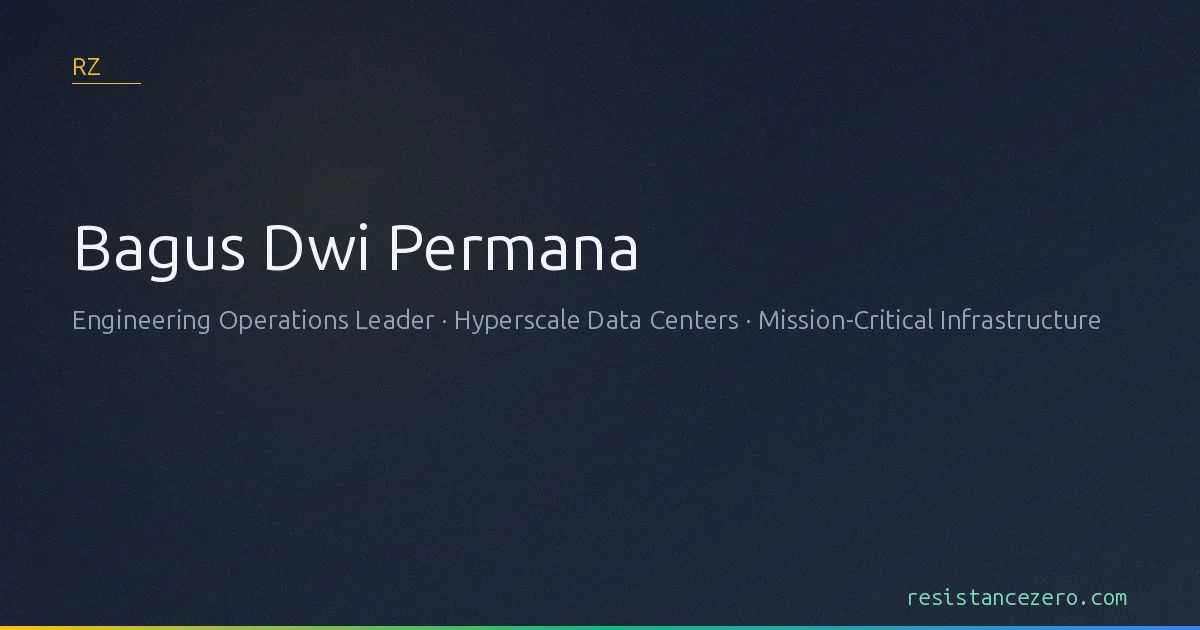
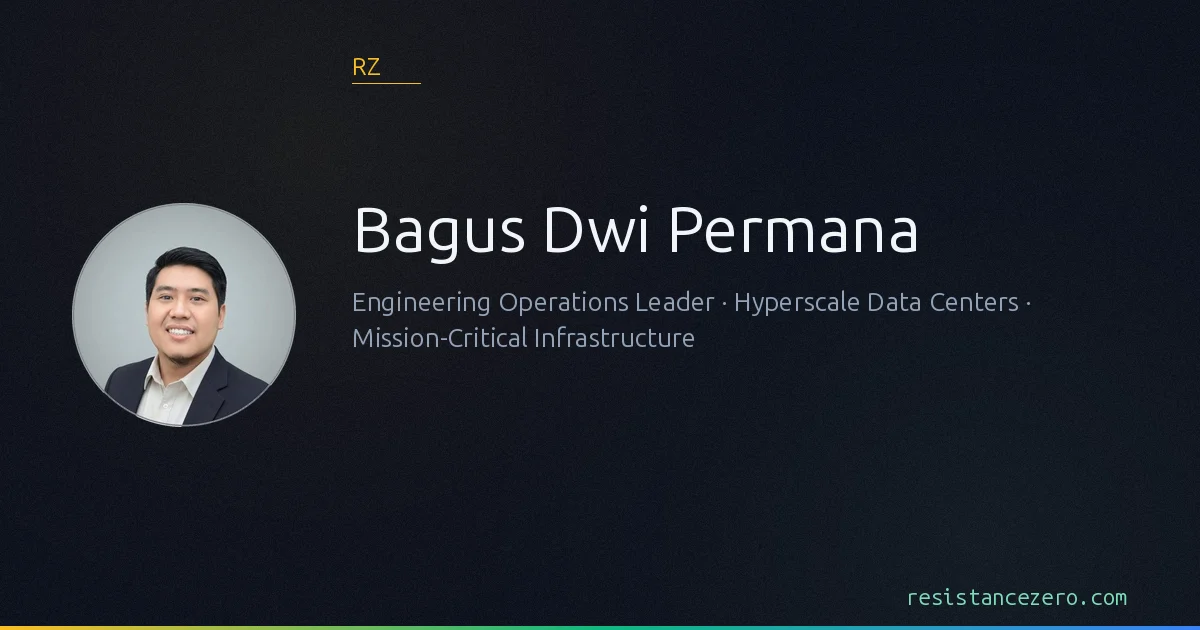
feat: article-28 editorial overhaul — skin compliance + real source links + research-backed depth + OG photo card
- Add missing .container wrapper in article-content (root of no-margins + missing related-rail; matches article-27)
- Skin: remove gradient drop-cap/h2 accent + duplicate scroll bar (rejected #7/#9); wide tables scroll inside reading measure
- Depth: hardware-ceiling table, needs/cost/time/risk pipeline table, provider notes (Claude/ChatGPT/Ollama/Gemini), BitNet/DistilBERT/dataset-distillation concretes; honesty guardrails (4000x illustrative, 100-150x solid, corpus corrected 60->15-20TB, Extropic aspirational)
- Sources: real clickable arXiv/DOI links + confidence tags; fix Landauer anchor + series-nav (23->28)
- OG: circular profile-photo composite + index-aligned dark hero (build-og-images.py -> assets/og/index.webp)
- v1.113.3

diff --git a/changelog.html b/changelog.html
@@ -14,7 +14,7 @@
   <meta name="viewport" content="width=device-width, initial-scale=1.0">
   <meta http-equiv="X-UA-Compatible" content="IE=edge">
 
-  <title>Changelog — Resistance Zero (v1.113.2 latest)</title>
+  <title>Changelog — Resistance Zero (v1.113.3 latest)</title>
   <meta name="description" content="Live release notes for resistancezero.com — every shipped version, Plan v12 → v15+, with Awwwards uplift, dark-mode coverage, and SEO/AI-search work.">
   <meta name="author" content="Bagus Dwi Permana">
   <meta name="robots" content="index, follow">
@@ -50,7 +50,7 @@
         "@id": "https://resistancezero.com/changelog.html",
         "url": "https://resistancezero.com/changelog.html",
         "name": "Changelog — Resistance Zero",
-        "description": "Live release notes for resistancezero.com — 546 shipped versions.",
+        "description": "Live release notes for resistancezero.com — 547 shipped versions.",
         "dateModified": "2026-07-22",
         "author": {
           "@type": "Person",
@@ -73,18 +73,18 @@
       {
         "@type": "ItemList",
         "name": "Release history",
-        "numberOfItems": 546,
+        "numberOfItems": 547,
         "itemListElement": [
-        {"@type":"ListItem","position":1,"name":"v1.113.2 — 2026-07-22","url":"https://resistancezero.com/changelog.html#v1.113.2"},
-        {"@type":"ListItem","position":2,"name":"v1.113.1 — 2026-07-22","url":"https://resistancezero.com/changelog.html#v1.113.1"},
-        {"@type":"ListItem","position":3,"name":"v1.113.0 — 2026-07-22","url":"https://resistancezero.com/changelog.html#v1.113.0"},
-        {"@type":"ListItem","position":4,"name":"v1.112.2 — 2026-07-22","url":"https://resistancezero.com/changelog.html#v1.112.2"},
-        {"@type":"ListItem","position":5,"name":"v1.112.1 — 2026-07-22","url":"https://resistancezero.com/changelog.html#v1.112.1"},
-        {"@type":"ListItem","position":6,"name":"v1.112.0 — 2026-07-22","url":"https://resistancezero.com/changelog.html#v1.112.0"},
-        {"@type":"ListItem","position":7,"name":"v1.111.2 — 2026-07-22","url":"https://resistancezero.com/changelog.html#v1.111.2"},
-        {"@type":"ListItem","position":8,"name":"v1.111.1 — 2026-07-22","url":"https://resistancezero.com/changelog.html#v1.111.1"},
-        {"@type":"ListItem","position":9,"name":"v1.111.0 — 2026-07-22","url":"https://resistancezero.com/changelog.html#v1.111.0"},
-        {"@type":"ListItem","position":10,"name":"v1.110.2 — 2026-07-22","url":"https://resistancezero.com/changelog.html#v1.110.2"}
+        {"@type":"ListItem","position":1,"name":"v1.113.3 — 2026-07-22","url":"https://resistancezero.com/changelog.html#v1.113.3"},
+        {"@type":"ListItem","position":2,"name":"v1.113.2 — 2026-07-22","url":"https://resistancezero.com/changelog.html#v1.113.2"},
+        {"@type":"ListItem","position":3,"name":"v1.113.1 — 2026-07-22","url":"https://resistancezero.com/changelog.html#v1.113.1"},
+        {"@type":"ListItem","position":4,"name":"v1.113.0 — 2026-07-22","url":"https://resistancezero.com/changelog.html#v1.113.0"},
+        {"@type":"ListItem","position":5,"name":"v1.112.2 — 2026-07-22","url":"https://resistancezero.com/changelog.html#v1.112.2"},
+        {"@type":"ListItem","position":6,"name":"v1.112.1 — 2026-07-22","url":"https://resistancezero.com/changelog.html#v1.112.1"},
+        {"@type":"ListItem","position":7,"name":"v1.112.0 — 2026-07-22","url":"https://resistancezero.com/changelog.html#v1.112.0"},
+        {"@type":"ListItem","position":8,"name":"v1.111.2 — 2026-07-22","url":"https://resistancezero.com/changelog.html#v1.111.2"},
+        {"@type":"ListItem","position":9,"name":"v1.111.1 — 2026-07-22","url":"https://resistancezero.com/changelog.html#v1.111.1"},
+        {"@type":"ListItem","position":10,"name":"v1.111.0 — 2026-07-22","url":"https://resistancezero.com/changelog.html#v1.111.0"}
         ]
       }
     ]
@@ -607,10 +607,10 @@
       <h1 id="cl-heading">Changelog</h1>
       <p class="cl-subtitle">Live release notes &mdash; every shipped version</p>
       <p class="cl-meta">
-        Latest: <strong style="color:#7dd5b4;">v1.113.2</strong>
+        Latest: <strong style="color:#7dd5b4;">v1.113.3</strong>
         &nbsp;&bull;&nbsp;
         <span id="rzVersionAnchor"></span>
-        <span class="cl-count-badge">546 releases</span>
+        <span class="cl-count-badge">547 releases</span>
       </p>
 
       <div class="filter-chips" role="group" aria-label="Filter by version tier">
@@ -624,7 +624,29 @@
     <!-- ── Entry list ── -->
     <section class="changelog-list" aria-label="Release history">
 
-    <article class="changelog-entry is-current" data-version-tier="patch" data-version="v1.113.2">
+    <article class="changelog-entry is-current" data-version-tier="patch" data-version="v1.113.3">
+      <div class="changelog-meta">
+        <span class="changelog-version-badge" style="--tier-color:#10b981;">v1.113.3</span>
+        <span class="changelog-tier-pill" style="--tier-color:#10b981;background:#10b98120;color:#10b981;border:1px solid #10b98140;">PATCH</span>
+        <time class="changelog-date" datetime="2026-07-22">July 22, 2026</time>
+      </div>
+      <p class="changelog-caption">article-28 editorial overhaul: skin compliance + real source links + research-backed depth + OG photo card</p>
+      <div class="changelog-body">
+        <h3 class="cl-subhead">Fixed</h3>
+<ul>
+  <li><strong>article-28.html reading layout</strong> — the page was missing the <code>&lt;div class=&quot;container&quot;&gt;</code> wrapper inside <code>&lt;article class=&quot;article-content&quot;&gt;</code> that every compliant editorial article uses (see <code>article-27.html</code>). Without it the prose ran full-bleed (no centered column, no L/R margins) <strong>and</strong> the shared editorial runtime could not build the sticky related rail (it keys off <code>.article-content &gt; .container</code>). Added the wrapper → prose now sits in the centered reading column with margins, and the "Related" rail hydrates from the new Continue-Reading block. This is the true root of the recurring "no margins / doesn't follow the article standard" report (the earlier <code>.article-body</code> wrapper alone was insufficient).</li>
+</ul>
+<h3 class="cl-subhead">Changed</h3>
+<ul>
+  <li><strong>article-28 skin → editorial compliance</strong> (rejected-pattern #7/#9): removed the gradient drop-cap (<code>linear-gradient</code> first-letter → solid <code>--rz-art-accent</code>), flattened the gradient <code>h2::before</code> accent to a 2px solid rail, and deleted the bespoke hand-rolled scroll-progress bar + its script (the shared <code>js/rz-article-editorial.js</code> runtime owns read-progress). Body callouts were already editorial-flat via <code>css/rz-article-dark.css</code>. Wide 7-column data tables now scroll inside the reading measure (<code>.ws-lever-table</code> clamped to <code>min(--rz-measure, 880px)</code>) so they no longer sprawl past the prose (fixes the responsive wide-article-table gate; note this site's editorial measure is 46rem @ 20px root = 920px).</li>
+  <li><strong>article-28 content depth</strong> (owner: "harus sangat2 lebih detail", concrete max limits + conditions + per-process cost/duration/needs/risk): added a hardware-ceiling table (what fits on 16GB/24–32GB/70B/CPU-only, with the <code>Q4 ≈ 0.5GB/1B</code> rule), expanded the local-AI pipeline table to needs·cost·time·ROI·risk with real figures (QLoRA 65–70B on one 48GB GPU ~24h/~$15–30, RAG < ~100K interactions/mo cheaper than fine-tune, MCPVerse best-model 57.77%), a provider-notes table (Claude MCP / ChatGPT function-calling / Ollama local GGUF / Gemini long-context grounding), concrete BitNet 70B numbers (4.1× faster · 8.9× throughput · 7.16× less memory · 71.4× matmul energy, from-scratch-only caveat), DistilBERT (97% at −40% params) + dataset-distillation (50 IPC → −5.9% on ImageNet-1K), and rewrote the 3 generic FAQ into concrete max-and-conditions answers. Honesty guardrails: the "~4,000×" density figure is labeled illustrative (the solid, sourced number is corpus→FP16-70B ≈ 100–150×; cascade chart + CSV corrected from ~60 TB to ~15–20 TB), "30–60%" prompt gain labeled reported, Extropic "~10,000×" labeled aspirational.</li>
+  <li><strong>article-28 sources</strong> — every reference is now a real clickable link (arXiv <code>abs/</code>, DOI, publisher pages) with <code>[proven]/[reported]/[frontier]/[claim]</code> confidence tags (owner: "sources reference ini tidak ada linknya"). Fixed the wrong glossary anchor on Landauer and corrected the series-nav (was mislabeled "Article 23"/prev article-22 → Article 28/prev article-27).</li>
+  <li><strong>Open Graph index card</strong> (<code>tools/build-og-images.py</code> → <code>assets/og/index.webp</code>) — the generic gradient card now composites a circular profile photo (<code>assets/profile-photo.jpg</code>, anti-aliased mask + brand hairline ring) over an index-aligned dark hero (near-<code>#0a0e1a</code> base + low-opacity gold/mint aurora, RZ mark, resistancezero.com footer). Graceful fallback if the photo is absent.</li>
+</ul>
+      </div>
+    </article>
+
+    <article class="changelog-entry" data-version-tier="patch" data-version="v1.113.2">
       <div class="changelog-meta">
         <span class="changelog-version-badge" style="--tier-color:#10b981;">v1.113.2</span>
         <span class="changelog-tier-pill" style="--tier-color:#10b981;background:#10b98120;color:#10b981;border:1px solid #10b98140;">PATCH</span>

diff --git a/article-28.html b/article-28.html
@@ -531,7 +531,7 @@
         .reference-item a:hover { text-decoration: underline; }
 
     /* Keep wide data tables inside the reading column — scroll internally instead of overflowing */
-    .article-body .ws-lever-table { display: block; max-width: 100%; overflow-x: auto; }
+    html[data-rz-register="editorial"] .article-body .ws-lever-table { display: block; max-width: min(var(--rz-measure, 46rem), 880px) !important; overflow-x: auto !important; }
     /* v1.5.0 — article typography uplift (Awwwards-tier polish) */
 
 /* Drop-cap on first paragraph of article body — solid accent (editorial skin, no gradient) */
@@ -859,6 +859,7 @@ article h2:hover::before { opacity: 1; transform: translateX(0); }
 <!-- Article Content -->
 <main id="main-content">
 <article class="article-content">
+<div class="container">
 <div class="article-body">
     <p class="ws-lead">A friend handed me two provocations that sound like science fiction and, taken literally, are. First: compress hundreds of terabytes of AI training data &mdash; millions of times over &mdash; down to about one kilobyte. Second: make a single CPU-only laptop the equal of a gigawatt of datacenter AI compute. Both collide head-on with two of the most durable walls in all of science. And yet the honest answer is not &ldquo;no.&rdquo; It is far more interesting than that.</p>
 
@@ -1155,6 +1156,7 @@ article h2:hover::before { opacity: 1; transform: translateX(0); }
         <a href="articles.html">All Articles</a>
         <span style="color:#64748b;cursor:default;">Latest Article</span>
     </div>
+</div>
 </div>
 </article>
 

diff --git a/js/rz-version.js b/js/rz-version.js
@@ -1,4 +1,4 @@
 /* Single source of truth for site version. Bump on every release per VERSIONING_STANDARD.md. */
-window.RZ_VERSION = '1.113.2';
-window.RZ_VERSION_DATE = '2026-07-21';
+window.RZ_VERSION = '1.113.3';
+window.RZ_VERSION_DATE = '2026-07-22';
 window.RZ_VERSION_CODENAME = 'Pixel Rise';

diff --git a/tools/build-og-images.py b/tools/build-og-images.py
@@ -35,6 +35,10 @@ except ImportError:
 SCRIPT_DIR = Path(__file__).resolve().parent
 REPO_ROOT = SCRIPT_DIR.parent
 OUTPUT_DIR = REPO_ROOT / "assets" / "og"
+PROFILE_PHOTO = REPO_ROOT / "assets" / "profile-photo.jpg"
+
+# Slugs that get the owner-photo hero treatment (index card + profile fallback).
+PHOTO_SLUGS = {"index", "profile"}
 
 # ---------------------------------------------------------------------------
 # Per-page targets: (slug, title, subtitle, accent_hex)
@@ -599,6 +603,13 @@ STRIP_COLOR = "#7DDDB4"
 
 BORDER_STOPS = ["#fbbf24", "#10b981", "#3b82f6"]
 
+# --- Index-hero palette (matches site index look: near-black base + gold/mint aurora) ---
+HERO_BASE = "#0a0e1a"          # index dark base
+HERO_AURORA_GOLD = "#fbbf24"   # signal amber
+HERO_AURORA_MINT = "#7DDDB4"   # mint accent
+AVATAR_DIAMETER = 224          # px, hero avatar
+AVATAR_RING = (255, 255, 255, 128)  # thin brand hairline ~ rgba(255,255,255,0.5)
+
 
 def _make_gradient_bg() -> Image.Image:
     """Dark-slate linear gradient top-left → bottom-right."""
@@ -613,6 +624,75 @@ def _make_gradient_bg() -> Image.Image:
             b = int(tl[2] + (br[2] - tl[2]) * t)
             img.putpixel((x, y), (r, g, b))
     return img
+
+
+def _make_hero_bg() -> Image.Image:
+    """Index-hero base: near-black (#0a0e1a) with a soft gold + mint aurora wash.
+
+    Low-opacity radial washes only (gold upper-left, mint lower-right) — no
+    saturated generic gradient, matching the site's index hero treatment.
+    """
+    base = _hex(HERO_BASE)
+    img = Image.new("RGBA", (W, H), (*base, 255))
+
+    def _aurora(cx: int, cy: int, radius: int, hex_color: str, max_alpha: int) -> None:
+        blob = Image.new("RGBA", (W, H), (0, 0, 0, 0))
+        d = ImageDraw.Draw(blob)
+        ar, ag, ab = _hex(hex_color)
+        step = max(1, radius // 70)
+        for r in range(radius, 0, -step):
+            alpha = int(max_alpha * (1 - r / radius) ** 1.6)
+            d.ellipse([cx - r, cy - r, cx + r, cy + r], fill=(ar, ag, ab, alpha))
+        img.alpha_composite(blob)
+
+    # Gold aurora upper-left, mint aurora lower-right — both very low opacity.
+    _aurora(int(W * 0.26), int(H * 0.24), int(W * 0.48), HERO_AURORA_GOLD, 16)
+    _aurora(int(W * 0.82), int(H * 0.86), int(W * 0.50), HERO_AURORA_MINT, 14)
+    return img.convert("RGB")
+
+
+def _circular_avatar(
+    path: Path, diameter: int, ring_rgba: tuple[int, int, int, int]
+) -> Image.Image | None:
+    """Load a photo, center-crop to square, apply an anti-aliased circular mask
+    (rendered at 4× then downscaled), and draw a thin hairline ring.
+
+    Returns an RGBA image of size (diameter, diameter), or None if the source
+    photo is missing/unreadable (caller falls back to a photo-less card).
+    """
+    if not path.exists():
+        return None
+    try:
+        src = Image.open(path).convert("RGB")
+    except Exception:
+        return None
+
+    # Center-crop to a square.
+    w, h = src.size
+    side = min(w, h)
+    left = (w - side) // 2
+    top = (h - side) // 2
+    src = src.crop((left, top, left + side, top + side))
+
+    ss = 4  # supersample factor for anti-aliased mask + ring
+    big = diameter * ss
+    photo = src.resize((big, big), Image.LANCZOS).convert("RGBA")
+
+    mask = Image.new("L", (big, big), 0)
+    ImageDraw.Draw(mask).ellipse([0, 0, big - 1, big - 1], fill=255)
+
+    avatar_big = Image.new("RGBA", (big, big), (0, 0, 0, 0))
+    avatar_big.paste(photo, (0, 0), mask)
+
+    # Thin hairline ring, drawn at supersampled scale (≈1.5px after downscale).
+    ring_w = max(1, int(round(1.5 * ss)))
+    ImageDraw.Draw(avatar_big).ellipse(
+        [ring_w // 2, ring_w // 2, big - 1 - ring_w // 2, big - 1 - ring_w // 2],
+        outline=ring_rgba,
+        width=ring_w,
+    )
+
+    return avatar_big.resize((diameter, diameter), Image.LANCZOS)
 
 
 def _add_radial_blob(img: Image.Image, accent_hex: str) -> None:
@@ -685,11 +765,29 @@ def _wrapped_lines(text: str, font, max_width: int, max_lines: int) -> list[str]
 
 def build_og_image(slug: str, title: str, subtitle: str, accent_hex: str) -> Image.Image:
     """Render a 1200×630 OG card and return the PIL Image."""
-    img = _make_gradient_bg()
+    # Photo slugs (index + profile fallback) get the index-hero base + avatar.
+    avatar = None
+    if slug in PHOTO_SLUGS:
+        avatar = _circular_avatar(PROFILE_PHOTO, AVATAR_DIAMETER, AVATAR_RING)
 
-    _add_radial_blob(img, accent_hex)
+    if avatar is not None:
+        img = _make_hero_bg()
+    else:
+        img = _make_gradient_bg()
+        _add_radial_blob(img, accent_hex)
+
     _add_grain(img)
     _add_bottom_border(img)
+
+    # ---- Composite the hero avatar (left of the title, vertically centered) ----
+    pad_x = 72
+    pad_y_top = 52
+    avatar_x = pad_x
+    if avatar is not None:
+        avatar_y = (H - AVATAR_DIAMETER) // 2
+        rgba = img.convert("RGBA")
+        rgba.alpha_composite(avatar, (avatar_x, avatar_y))
+        img = rgba.convert("RGB")
 
     draw = ImageDraw.Draw(img)
 
@@ -699,23 +797,25 @@ def build_og_image(slug: str, title: str, subtitle: str, accent_hex: str) -> Ima
     font_subtitle = _load_font("regular", 26)
     font_mono = _load_font("mono", 22)
 
-    pad_x = 72
-    pad_y_top = 52
+    # Text block shifts right of the avatar when a photo is present.
+    text_x = pad_x
+    if avatar is not None:
+        text_x = avatar_x + AVATAR_DIAMETER + 56
 
     # ---- Brand mark "RZ" ----
-    draw.text((pad_x, pad_y_top), "RZ", font=font_brand_sm, fill=BRAND_COLOR)
+    draw.text((text_x, pad_y_top), "RZ", font=font_brand_sm, fill=BRAND_COLOR)
 
     # ---- Accent line under brand ----
-    brand_bbox = draw.textbbox((pad_x, pad_y_top), "RZ", font=font_brand_sm)
+    brand_bbox = draw.textbbox((text_x, pad_y_top), "RZ", font=font_brand_sm)
     line_y = brand_bbox[3] + 8
     line_x_end = brand_bbox[2] + 40
     ar, ag, ab = _hex(accent_hex)
-    for i, x in enumerate(range(pad_x, line_x_end)):
-        alpha = max(0, 1 - (x - pad_x) / (line_x_end - pad_x))
+    for i, x in enumerate(range(text_x, line_x_end)):
+        alpha = max(0, 1 - (x - text_x) / (line_x_end - text_x))
         draw.point((x, line_y), fill=(ar, ag, ab))
 
     # ---- Title block (vertically centered in upper 70% of card) ----
-    max_text_w = W - pad_x * 2
+    max_text_w = W - text_x - pad_x
     title_lines = _wrapped_lines(title, font_title, max_text_w, 2)
     title_line_h = 74  # approx line height for 64px
 
@@ -732,14 +832,14 @@ def build_og_image(slug: str, title: str, subtitle: str, accent_hex: str) -> Ima
 
     # Title
     for line in title_lines:
-        draw.text((pad_x, text_y), line, font=font_title, fill=TITLE_COLOR)
+        draw.text((text_x, text_y), line, font=font_title, fill=TITLE_COLOR)
         text_y += title_line_h
 
     text_y += 20
 
     # Subtitle
     for line in subtitle_lines:
-        draw.text((pad_x, text_y), line, font=font_subtitle, fill=SUBTITLE_COLOR)
+        draw.text((text_x, text_y), line, font=font_subtitle, fill=SUBTITLE_COLOR)
         text_y += subtitle_line_h
 
     # ---- Bottom brand strip ----

diff --git a/CHANGELOG.md b/CHANGELOG.md
@@ -11,6 +11,17 @@ release sections rather than semver.
 
 ---
 
+## v1.113.3 — 2026-07-22 (article-28 editorial overhaul: skin compliance + real source links + research-backed depth + OG photo card)
+
+### Fixed
+- **article-28.html reading layout** — the page was missing the `<div class="container">` wrapper inside `<article class="article-content">` that every compliant editorial article uses (see `article-27.html`). Without it the prose ran full-bleed (no centered column, no L/R margins) **and** the shared editorial runtime could not build the sticky related rail (it keys off `.article-content > .container`). Added the wrapper → prose now sits in the centered reading column with margins, and the "Related" rail hydrates from the new Continue-Reading block. This is the true root of the recurring "no margins / doesn't follow the article standard" report (the earlier `.article-body` wrapper alone was insufficient).
+
+### Changed
+- **article-28 skin → editorial compliance** (rejected-pattern #7/#9): removed the gradient drop-cap (`linear-gradient` first-letter → solid `--rz-art-accent`), flattened the gradient `h2::before` accent to a 2px solid rail, and deleted the bespoke hand-rolled scroll-progress bar + its script (the shared `js/rz-article-editorial.js` runtime owns read-progress). Body callouts were already editorial-flat via `css/rz-article-dark.css`. Wide 7-column data tables now scroll inside the reading measure (`.ws-lever-table` clamped to `min(--rz-measure, 880px)`) so they no longer sprawl past the prose (fixes the responsive wide-article-table gate; note this site's editorial measure is 46rem @ 20px root = 920px).
+- **article-28 content depth** (owner: "harus sangat2 lebih detail", concrete max limits + conditions + per-process cost/duration/needs/risk): added a hardware-ceiling table (what fits on 16GB/24–32GB/70B/CPU-only, with the `Q4 ≈ 0.5GB/1B` rule), expanded the local-AI pipeline table to needs·cost·time·ROI·risk with real figures (QLoRA 65–70B on one 48GB GPU ~24h/~$15–30, RAG < ~100K interactions/mo cheaper than fine-tune, MCPVerse best-model 57.77%), a provider-notes table (Claude MCP / ChatGPT function-calling / Ollama local GGUF / Gemini long-context grounding), concrete BitNet 70B numbers (4.1× faster · 8.9× throughput · 7.16× less memory · 71.4× matmul energy, from-scratch-only caveat), DistilBERT (97% at −40% params) + dataset-distillation (50 IPC → −5.9% on ImageNet-1K), and rewrote the 3 generic FAQ into concrete max-and-conditions answers. Honesty guardrails: the "~4,000×" density figure is labeled illustrative (the solid, sourced number is corpus→FP16-70B ≈ 100–150×; cascade chart + CSV corrected from ~60 TB to ~15–20 TB), "30–60%" prompt gain labeled reported, Extropic "~10,000×" labeled aspirational.
+- **article-28 sources** — every reference is now a real clickable link (arXiv `abs/`, DOI, publisher pages) with `[proven]/[reported]/[frontier]/[claim]` confidence tags (owner: "sources reference ini tidak ada linknya"). Fixed the wrong glossary anchor on Landauer and corrected the series-nav (was mislabeled "Article 23"/prev article-22 → Article 28/prev article-27).
+- **Open Graph index card** (`tools/build-og-images.py` → `assets/og/index.webp`) — the generic gradient card now composites a circular profile photo (`assets/profile-photo.jpg`, anti-aliased mask + brand hairline ring) over an index-aligned dark hero (near-`#0a0e1a` base + low-opacity gold/mint aurora, RZ mark, resistancezero.com footer). Graceful fallback if the photo is absent.
+
 ## v1.113.2 — 2026-07-22 (Fix: mobile hamburger appearing + misfiring on desktop)
 
 ### Fixed
